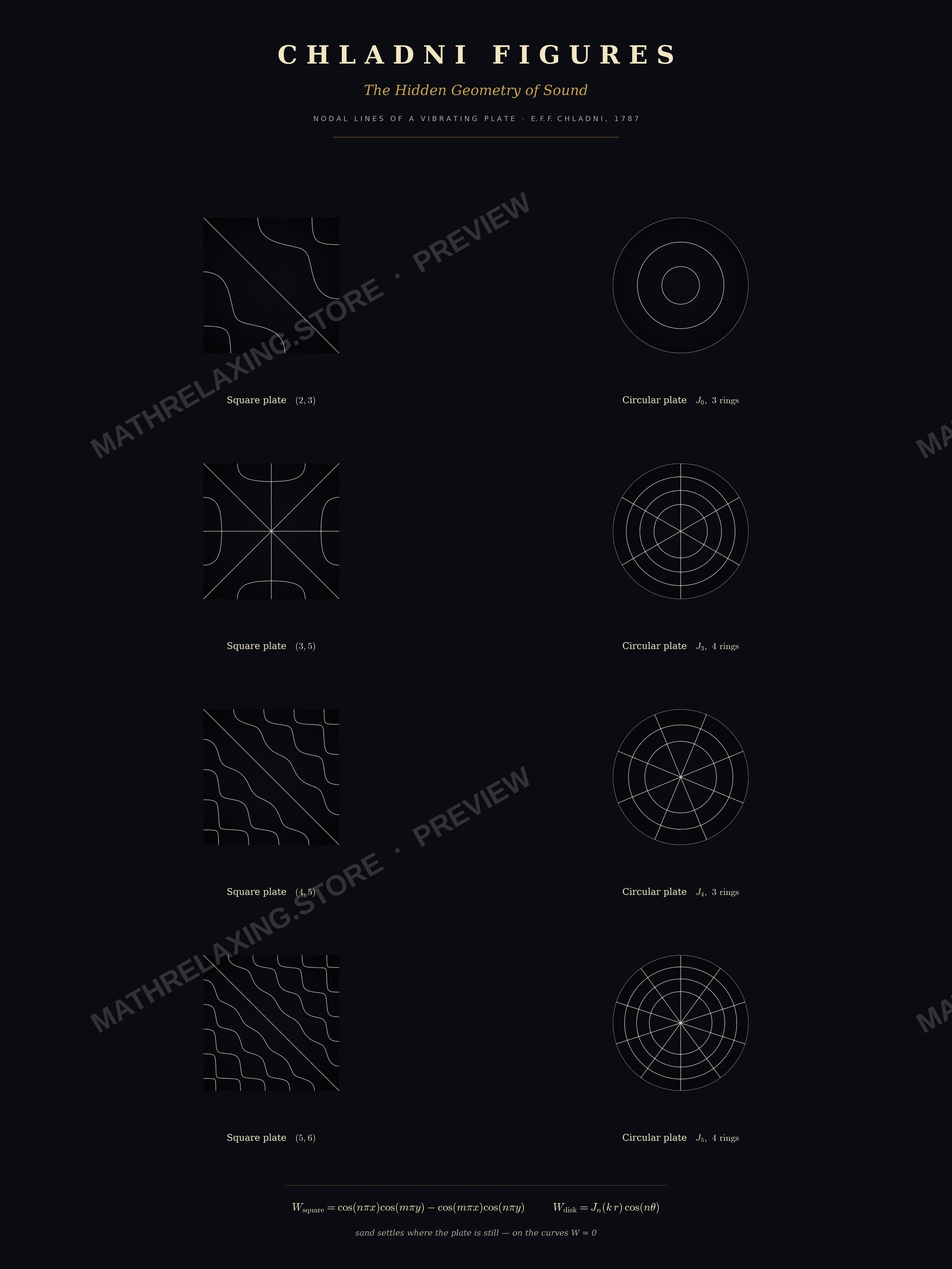
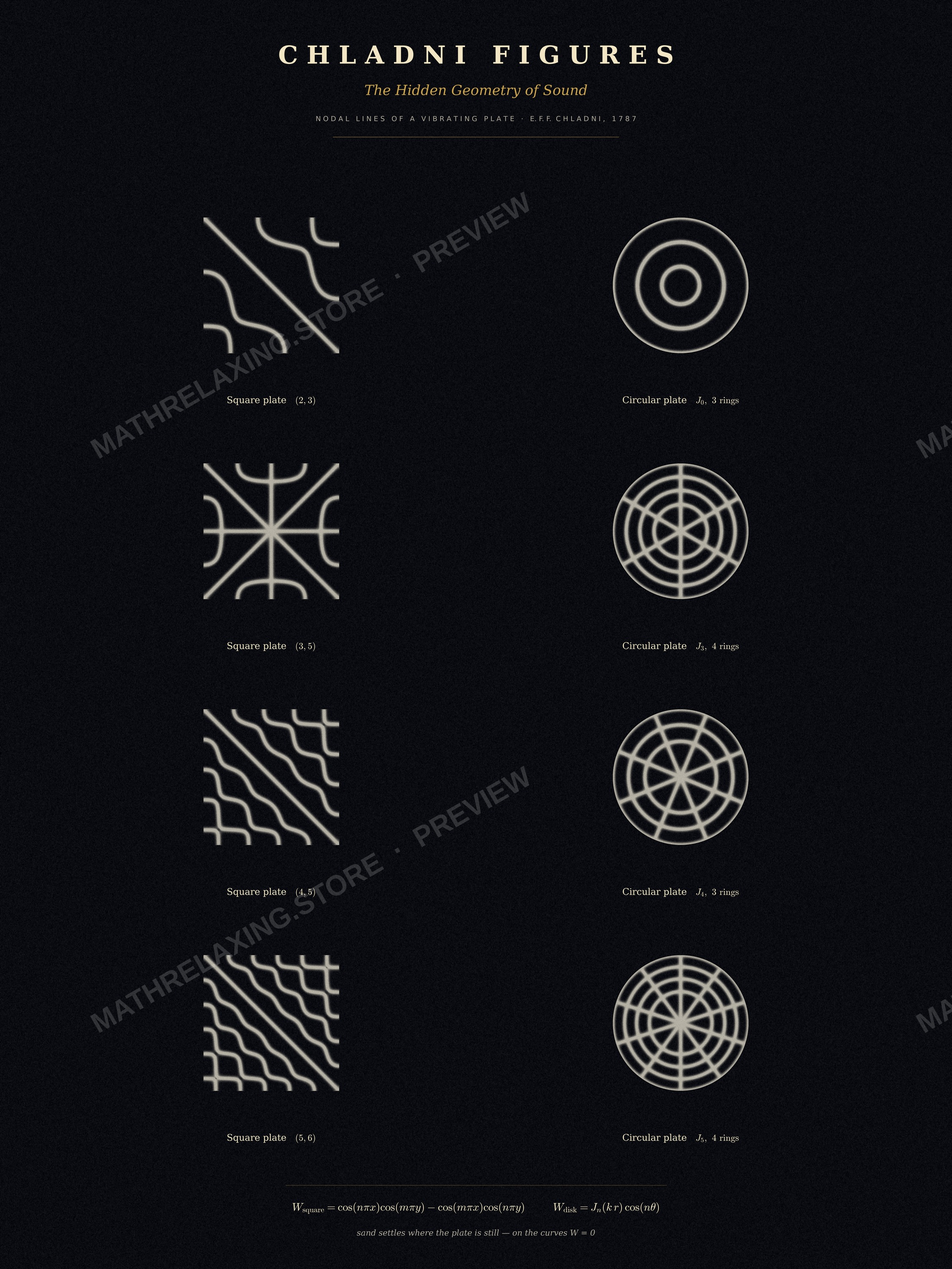
Chladni poster: unified plate background + granular sand render
Addresses two requests: (1) figures now float on ONE continuous textured
plate instead of per-figure tiles — each figure is rendered as sand-only on a
transparent background (sand_rgba) and composited over a single shared plate;
(2) the sand reads as real granular sand, not thin lines — wide,
resolution-independent nodal bands (band as a fraction of the plate), grains
rejection-sampled with scatter and per-pixel speckle, left un-smoothed.
Bumped the poster to 6840x9120 @380dpi (13.4 MB, within Etsy's 20 MB limit)
for visible grain. Regenerated preview + detail crops.

Claude-Session: https://claude.ai/code/session_01BoUmYt3wo9kd8sjZ3aRKaR

diff --git a/chladni/generate_chladni.py b/chladni/generate_chladni.py
@@ -134,6 +134,61 @@ def render_sand(W, mask=None, line=2.4, gamma=1.4, grain_passes=14, seed=0,
     return Image.fromarray(img)
 
 
+def sand_rgba(W, mask=None, band=0.013, gamma=0.85, passes=42, seed=0,
+              grain_px=1.7, sand=GRAIN):
+    """Sand grains on a TRANSPARENT background (for compositing onto one shared
+    poster plate). The nodal set becomes a WIDE granular band (like a real pile
+    of sand): grains are rejection-sampled with a resolution-independent width,
+    splatted as small discrete specks, and left un-smoothed so the texture reads
+    unmistakably as sand rather than a clean line.
+
+    band      : half-width of the sand pile as a FRACTION of the plate (~1-2%).
+    grain_px  : grain splat radius in pixels.
+    """
+    from scipy.ndimage import gaussian_filter
+    N = W.shape[0]
+    rng = np.random.default_rng(seed)
+    Wf = np.nan_to_num(W, nan=1e3)
+    gy, gx = np.gradient(Wf, 1.0 / N)
+    dist = np.abs(Wf) / (np.hypot(gx, gy) + 1e-6)      # spatial dist to node, [0,1] units
+    dens = np.exp(-(dist / band) ** 2)                 # wide band, res-independent
+    if mask is not None:
+        dens = np.where(mask, dens, 0.0)
+    prob = dens ** gamma
+
+    acc = np.zeros((N, N), float)
+    M = N * N // 2
+    spread = max(1, int(round(band * N * 0.9)))        # scatter radius (px) ~ band
+    for _ in range(passes):
+        xs = rng.integers(0, N, M); ys = rng.integers(0, N, M)
+        keep = rng.random(M) < prob[ys, xs]
+        xk = xs[keep].astype(np.int64); yk = ys[keep].astype(np.int64)
+        # natural scatter across the width of the pile
+        jit = rng.random(xk.size) < 0.5
+        xk = xk + (jit * rng.integers(-spread, spread + 1, xk.size))
+        yk = yk + (jit * rng.integers(-spread, spread + 1, yk.size))
+        np.clip(xk, 0, N - 1, out=xk); np.clip(yk, 0, N - 1, out=yk)
+        w = 0.35 + 1.2 * rng.random(xk.size)
+        np.add.at(acc, (yk, xk), w)
+    # grains get a little body (splat), but NO heavy smoothing -> stays grainy
+    acc = gaussian_filter(acc, grain_px * 0.5)
+    if (acc > 0).any():
+        amt = np.clip(acc / np.percentile(acc[acc > 0], 80), 0, 1)
+    else:
+        amt = acc
+    # speckle: multiply by per-pixel noise so the pile breaks into visible grains
+    amt = amt * (0.55 + 0.75 * rng.random((N, N)))
+    amt = np.clip(amt, 0, 1) ** 0.9
+    if mask is not None:
+        amt = np.where(mask, amt, 0.0)
+
+    rgba = np.zeros((N, N, 4), float)
+    tint = sand[None, None, :] * (0.78 + 0.22 * rng.random((N, N, 1)))
+    rgba[..., :3] = tint
+    rgba[..., 3] = amt * 255
+    return rgba.astype(np.uint8)
+
+
 # ── Contact sheet of modes ───────────────────────────────────────────────────
 
 def contact_sheet(out=os.path.join(BASE, "_chladni_sheet.png")):

diff --git a/chladni/build_chladni_poster.py b/chladni/build_chladni_poster.py
@@ -26,8 +26,8 @@ GOLD = "#c9a24b"
 MUTED = (0.68, 0.66, 0.60)
 
 TEST = "--test" in sys.argv
-TILE_N = 380 if TEST else 1200
-DPI = 90 if TEST else 300
+TILE_N = 460 if TEST else 2000
+DPI = 100 if TEST else 380          # 18x24 @380 = 6840x9120 (more grain detail)
 
 # 8 figures (mix of square & circular), each with a caption
 FIGS = [
@@ -47,7 +47,17 @@ def render_tile(kind, params, seed):
         W, m = ch.square_field(*params, N=TILE_N)
     else:
         W, m = ch.circular_field(*params, N=TILE_N)
-    return np.asarray(ch.render_sand(W, m, seed=seed))
+    return ch.sand_rgba(W, m, seed=seed)          # sand only, transparent bg
+
+
+def _plate_bg(N=1500):
+    """One shared, subtly textured dark plate for the whole poster (so figures
+    float on a single continuous background, not on per-figure tiles)."""
+    rng = np.random.default_rng(7)
+    plate = np.array([11, 12, 18], float)
+    tex = rng.normal(0, 4.5, (N, N, 1))
+    img = np.clip(plate[None, None, :] + tex, 0, 255).astype(np.uint8)
+    return img
 
 
 def build():
@@ -55,7 +65,12 @@ def build():
     W_IN, H_IN = 18.0, 24.0
     fig = plt.figure(figsize=(W_IN, H_IN))
     fig.patch.set_facecolor(PLATE)
-    bg = fig.add_axes([0, 0, 1, 1]); bg.axis("off"); bg.set_facecolor(PLATE)
+    # single continuous plate background behind everything
+    bgtex = fig.add_axes([0, 0, 1, 1]); bgtex.axis("off")
+    bgtex.imshow(_plate_bg(), extent=(0, 1, 0, 1), aspect="auto", zorder=0)
+    bgtex.set_xlim(0, 1); bgtex.set_ylim(0, 1)
+    bg = fig.add_axes([0, 0, 1, 1], zorder=1); bg.axis("off")
+    bg.patch.set_alpha(0.0)
 
     # ── header ──
     bg.text(0.5, 0.955, "C H L A D N I   F I G U R E S", ha="center", va="center",
@@ -78,8 +93,8 @@ def build():
         r, c = divmod(i, cols)
         ccx = gx0 + (c + 0.5) * cw
         ccy = gy1 - (r + 0.5) * ch_
-        ax = fig.add_axes([ccx - tile / 2, ccy - tile / 2 + 0.012, tile, tile])
-        ax.imshow(img); ax.axis("off")
+        ax = fig.add_axes([ccx - tile / 2, ccy - tile / 2 + 0.012, tile, tile], zorder=2)
+        ax.imshow(img); ax.axis("off"); ax.patch.set_alpha(0.0)
         bg.text(ccx, ccy - tile / 2 - 0.004, f"{name}   {label}",
                 ha="center", va="top", fontsize=12.5, color=CREAM, family="serif")
 
